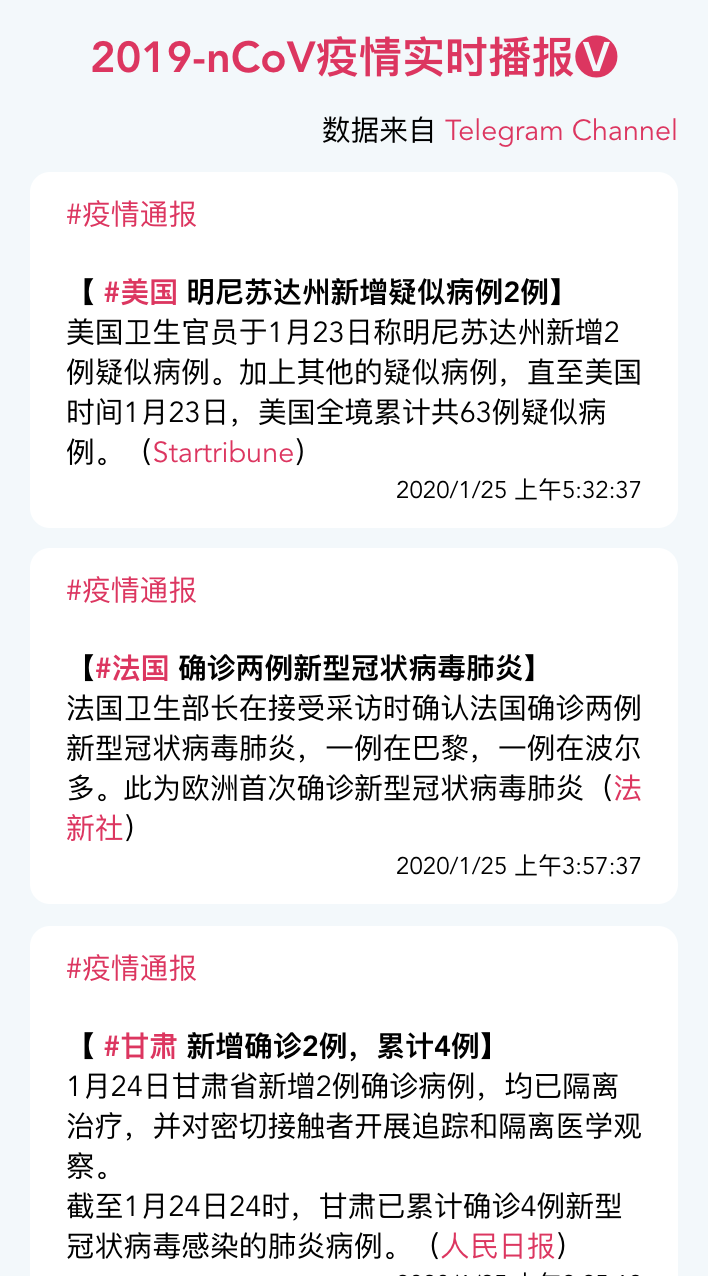
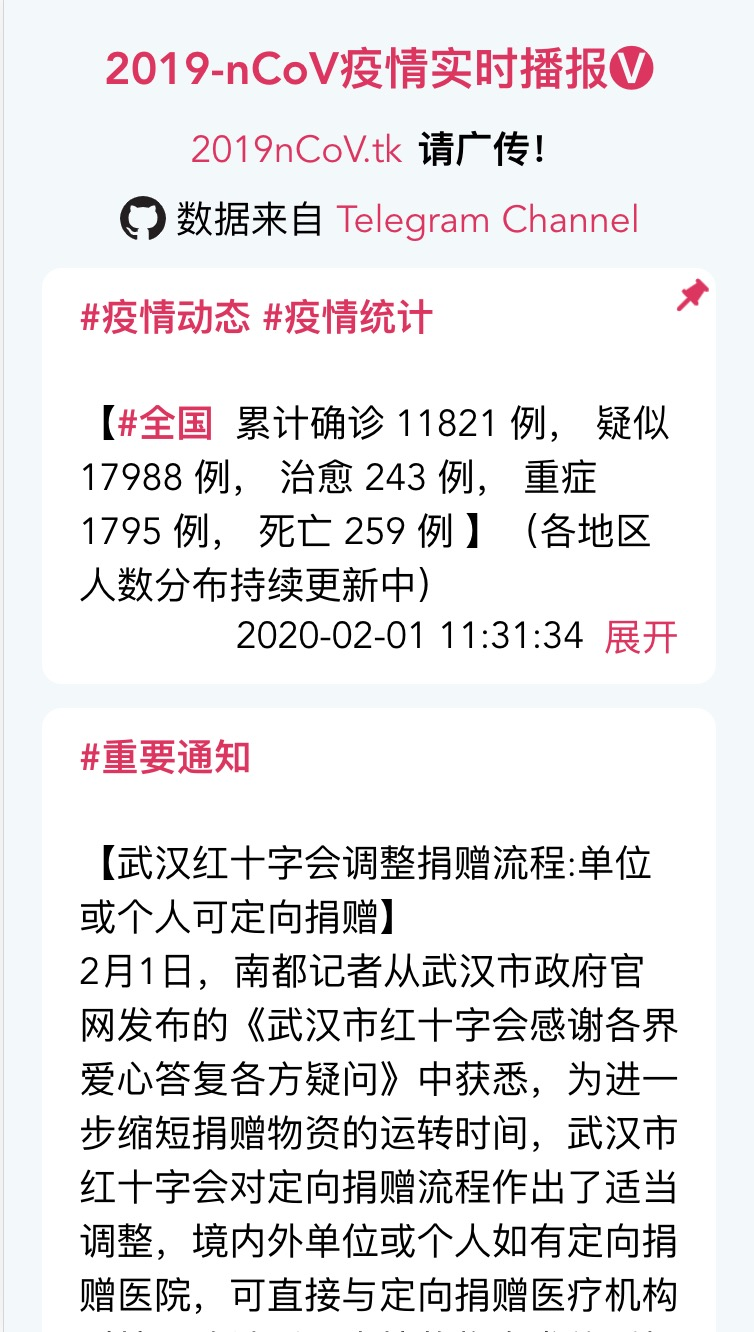
bux fixed: invalid time of pinned message;

diff --git a/src/store/index.js b/src/store/index.js
@@ -51,7 +51,7 @@ export default new Vuex.Store({
                 }
                 context.commit('setPinnedMessage', {
                     message: pinnedMessage.message,
-                    date: pinnedMessage.edit_date,
+                    date: pinnedMessage.edit_date || pinnedMessage.date,
                 });
 
                 res = res.messages;
